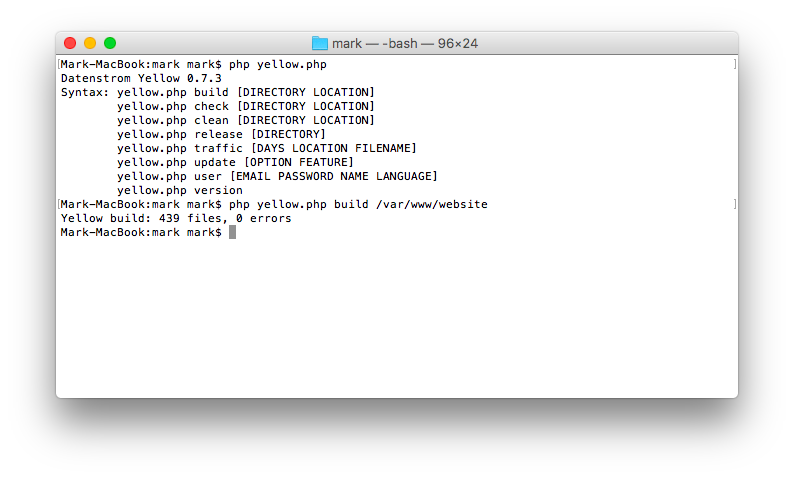
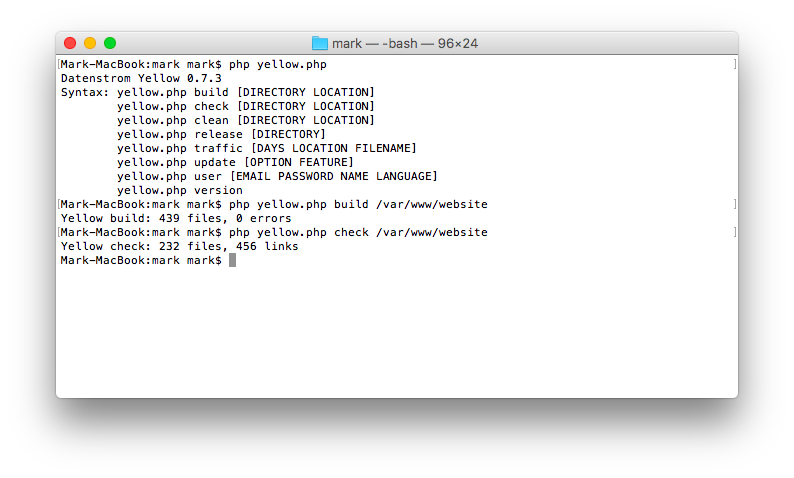
Updated command and disqus, fixed broken links

Changed region(s): [[0.0605, 0.4686, 0.6045, 0.5565]]

diff --git a/disqus/disqus.php b/disqus/disqus.php
@@ -1,11 +1,11 @@
 <?php
 // Disqus plugin, https://github.com/datenstrom/yellow-plugins/tree/master/disqus
-// Copyright (c) 2013-2017 Datenstrom, https://datenstrom.se
+// Copyright (c) 2013-2018 Datenstrom, https://datenstrom.se
 // This file may be used and distributed under the terms of the public license.
 
 class YellowDisqus
 {
-	const VERSION = "0.7.2";
+	const VERSION = "0.7.3";
 	var $yellow;			//access to API
 	
 	// Handle initialisation
@@ -31,11 +31,11 @@ class YellowDisqus
 			$output .= "var disqus_config = function () { this.language = '".strencode($language)."'; };\n";
 			$output .= "(function() {\n";
 			$output .= "var dsq = document.createElement('script'); dsq.type = 'text/javascript'; dsq.async = true;\n";
-			$output .= "dsq.src = '//' + disqus_shortname + '.disqus.com/embed.js';\n";
+			$output .= "dsq.src = 'https://' + disqus_shortname + '.disqus.com/embed.js';\n";
 			$output .= "(document.getElementsByTagName('head')[0] || document.getElementsByTagName('body')[0]).appendChild(dsq);\n";
 			$output .= "})();\n";
 			$output .= "</script>\n";
-			$output .= "<noscript>Please enable JavaScript to view the <a href=\"http://disqus.com/?ref_noscript\">comments powered by Disqus.</a></noscript>\n";
+			$output .= "<noscript>Please enable JavaScript to view the <a href=\"https://disqus.com/?ref_noscript\">comments powered by Disqus.</a></noscript>\n";
 		}
 		return $output;
 	}

diff --git a/command/command.php b/command/command.php
@@ -5,7 +5,7 @@
 
 class YellowCommand
 {
-	const VERSION = "0.7.4";
+	const VERSION = "0.7.5";
 	var $yellow;					//access to API
 	var $files;						//number of files
 	var $links;						//number of links
@@ -366,6 +366,7 @@ class YellowCommand
 				$statusCodeUrl = array_shift($locations);
 				foreach($locations as $location)
 				{
+					if($statusCodeUrl==302) continue;
 					if($statusCodeUrl>=300 && $statusCodeUrl<=399) {
 						$redirect["$scheme://$address$location -> $url - ".$this->getStatusFormatted($statusCodeUrl)] = $statusCodeUrl;
 					} else {

diff --git a/disqus/README.md b/disqus/README.md
@@ -1,4 +1,4 @@
-Disqus plugin 0.7.2
+Disqus plugin 0.7.3
 ===================
 Add Disqus comments to blog. [See demo](https://developers.datenstrom.se/plugins/blog/made-for-people).
 

diff --git a/command/README.md b/command/README.md
@@ -1,4 +1,4 @@
-Command plugin 0.7.4
+Command plugin 0.7.5
 =====================
 Run commands in a terminal window.
 
